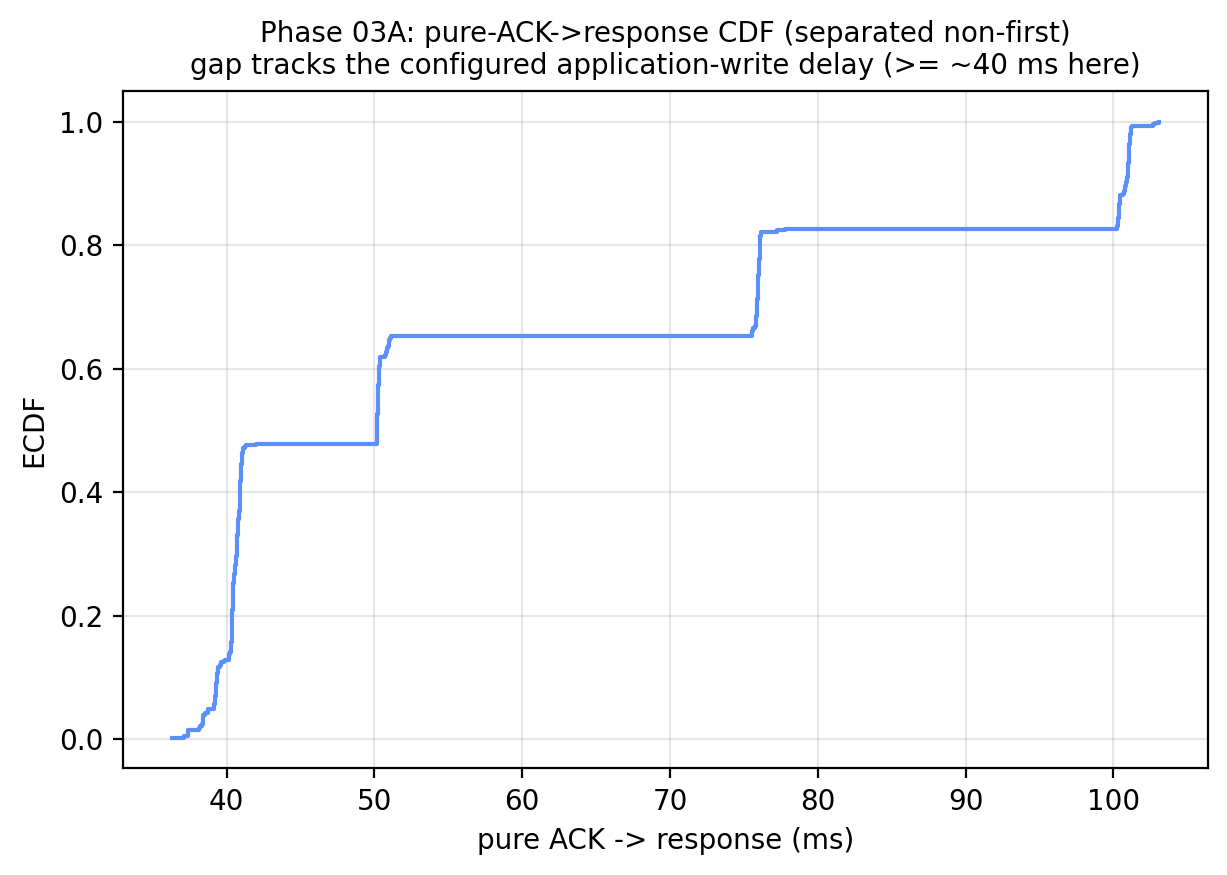
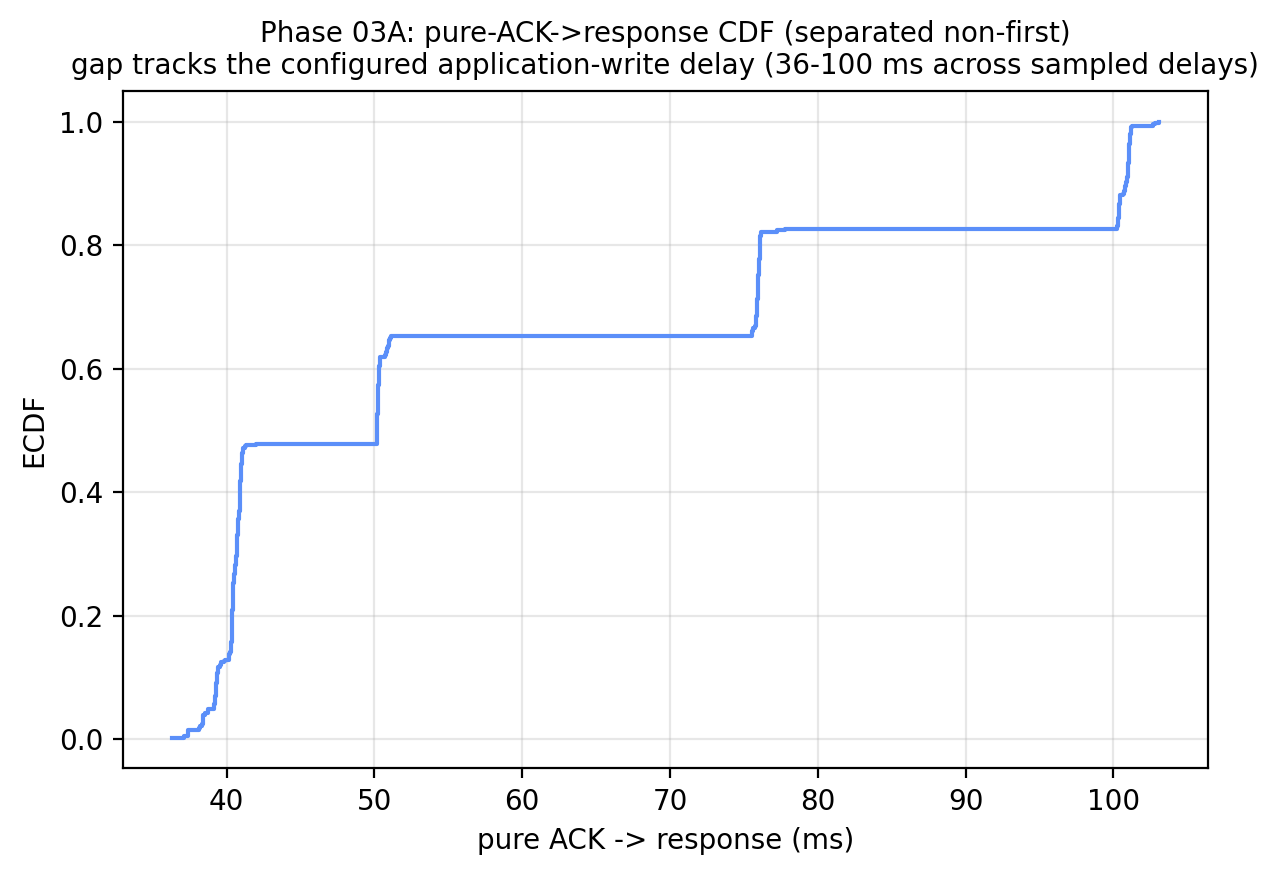
fix(phase03a): correct fig04 CDF title + graceful example-timeline selection
Code review follow-ups (figures/metadata verified correct on the committed
data; these are accuracy + robustness fixes):
- fig04 title said the ACK->response gap is '>= ~40 ms', but the pooled
  separated-non-first set now includes the refined 36-39 ms points (~13% below
  40 ms). Retitled to '36-100 ms across sampled delays'.
- Example-timeline picks (fig06/fig07) now degrade gracefully (skip + log)
  instead of raising StopIteration/TypeError if a future re-run's tables lack a
  matching row; also guards a None req_to_resp.

diff --git a/dnp3_split_harness/phase03_figures.py b/dnp3_split_harness/phase03_figures.py
@@ -183,7 +183,7 @@ def main() -> int:
 
     n4 = ecdf([_f(r["pure_ack_to_resp_ms"]) for r in sep_nf], "pure ACK -> response (ms)",
               "Phase 03A: pure-ACK->response CDF (separated non-first)\n"
-              "gap tracks the configured application-write delay (>= ~40 ms here)",
+              "gap tracks the configured application-write delay (36-100 ms across sampled delays)",
               "fig04_ack_to_response_cdf", [coarse_tx, refined_tx])
     meta("fig04_ack_to_response_cdf", source_tables=[coarse_tx, refined_tx],
          filters="non-first, SEPARATE_ACK_RESPONSE", n=n4, transformation="empirical CDF")
@@ -231,25 +231,25 @@ def main() -> int:
         plt.title(title, fontsize=10); plt.xlim(-max(t_resp, 1) * 0.08, max(t_resp, 1) * 1.15)
         save(name)
 
-    comb_ex = next(r for r in _rows(coarse_tx)
-                   if r["config"] == "delay_025ms" and r["is_first_in_connection"] == "False"
-                   and r["classification"] == CLS_COMBINED)
-    timeline(comb_ex, "fig06_example_combined_timeline",
-             "Phase 03A: example COMBINED timeline (delay 25 ms, non-first)\n"
-             "no standalone ACK; the response packet carries the ACK", has_ack=False)
-    meta("fig06_example_combined_timeline", source_tables=[coarse_tx],
-         filters="delay_025ms, non-first, COMBINED (single example)", n=1,
-         transformation="single-transaction timeline")
+    def example_timeline(cfg, cls, name, title, has_ack):
+        cand = next((r for r in _rows(coarse_tx)
+                     if r["config"] == cfg and r["is_first_in_connection"] == "False"
+                     and r["classification"] == cls and _f(r["req_to_resp_ms"]) is not None), None)
+        if cand is None:
+            print("skip %s: no matching %s non-first %s example in %s"
+                  % (name, cfg, cls, os.path.basename(coarse_tx)))
+            return
+        timeline(cand, name, title, has_ack)
+        meta(name, source_tables=[coarse_tx],
+             filters="%s, non-first, %s (single example)" % (cfg, cls), n=1,
+             transformation="single-transaction timeline")
 
-    sep_ex = next(r for r in _rows(coarse_tx)
-                  if r["config"] == "delay_040ms" and r["is_first_in_connection"] == "False"
-                  and r["classification"] == CLS_SEPARATE)
-    timeline(sep_ex, "fig07_example_separate_timeline",
-             "Phase 03A: example SEPARATE timeline (delay 40 ms, non-first)\n"
-             "prompt pure ACK, then response after the app-write delay", has_ack=True)
-    meta("fig07_example_separate_timeline", source_tables=[coarse_tx],
-         filters="delay_040ms, non-first, SEPARATE (single example)", n=1,
-         transformation="single-transaction timeline")
+    example_timeline("delay_025ms", CLS_COMBINED, "fig06_example_combined_timeline",
+                     "Phase 03A: example COMBINED timeline (delay 25 ms, non-first)\n"
+                     "no standalone ACK; the response packet carries the ACK", has_ack=False)
+    example_timeline("delay_040ms", CLS_SEPARATE, "fig07_example_separate_timeline",
+                     "Phase 03A: example SEPARATE timeline (delay 40 ms, non-first)\n"
+                     "prompt pure ACK, then response after the app-write delay", has_ack=True)
 
     print("figures:", sorted(x for x in os.listdir(fdir) if x.endswith(".png")))
     return 0
